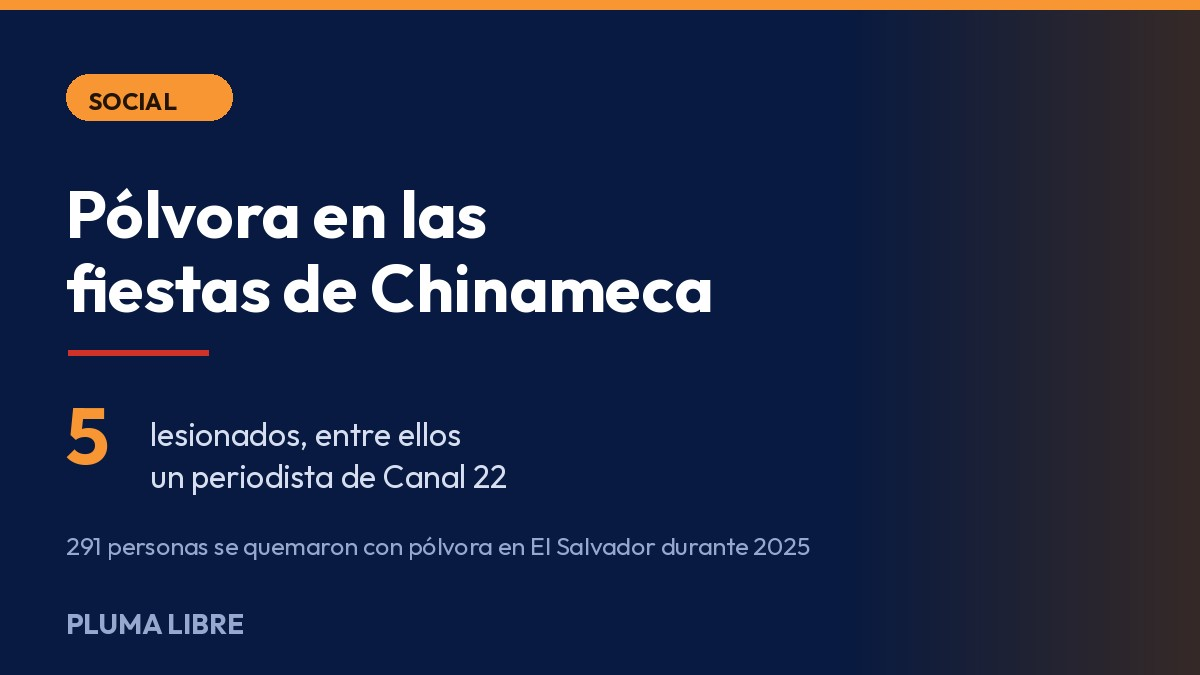
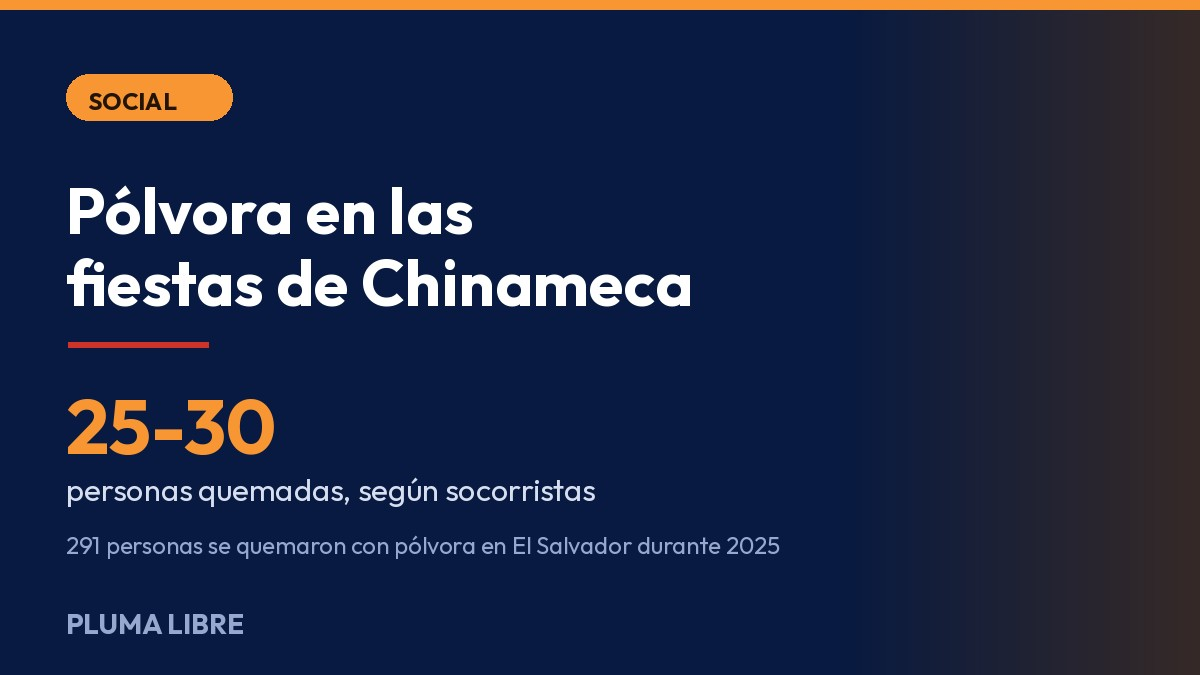
Chinameca: corregir a 25-30 quemados segun socorristas

diff --git a/articulos/polvora-fiestas-chinameca-lesionados.html b/articulos/polvora-fiestas-chinameca-lesionados.html
@@ -1,15 +1,15 @@
-<!DOCTYPE html><html lang="es"><head><meta charset="UTF-8"><meta name="viewport" content="width=device-width,initial-scale=1.0"><title>Pólvora sale disparada hacia la gente en las fiestas de Chinameca y deja al menos cinco lesionados — Pluma Libre</title><meta name="description" content="Entre los afectados hay un periodista de Canal 22 de Oriente. Cuerpos de socorro los trasladaron a un centro asistencial."><meta name="theme-color" content="#081A41"><link rel="canonical" href="https://plumalibre.press/articulos/polvora-fiestas-chinameca-lesionados.html"><meta property="og:type" content="article"><meta property="og:title" content="Pólvora sale disparada hacia la gente en las fiestas de Chinameca y deja al menos cinco lesionados"><meta property="og:description" content="Entre los afectados hay un periodista de Canal 22 de Oriente. Cuerpos de socorro los trasladaron a un centro asistencial."><meta property="og:image" content="https://plumalibre.press/assets/nota-polvora-chinameca.jpg"><meta property="og:site_name" content="Pluma Libre"><meta property="article:published_time" content="2026-07-31"><script type="application/ld+json">{"@context":"https://schema.org","@type":"NewsArticle","headline":"Pólvora sale disparada hacia la gente en las fiestas de Chinameca y deja al menos cinco lesionados","datePublished":"2026-07-31","author":{"@type":"Organization","name":"Pluma Libre"},"publisher":{"@type":"Organization","name":"Pluma Libre","logo":{"@type":"ImageObject","url":"https://plumalibre.press/assets/logo-simbolo.png"}}}</script><script>(function(){try{var p=new URLSearchParams(location.search);if(p.get("pl_no_track")==="1"){localStorage.setItem("pl_no_track","1");history.replaceState({},"",location.pathname+location.hash);}if(p.get("pl_track")==="1"){localStorage.removeItem("pl_no_track");history.replaceState({},"",location.pathname+location.hash);}if(localStorage.getItem("pl_no_track")==="1"){window["ga-disable-G-TZRTJLP5KT"]=true;}}catch(e){}})();</script><script async src="https://www.googletagmanager.com/gtag/js?id=G-TZRTJLP5KT"></script><script>window.dataLayer=window.dataLayer||[];function gtag(){dataLayer.push(arguments);}gtag("js",new Date());gtag("config","G-TZRTJLP5KT");</script><link rel="icon" href="../assets/favicon.ico" sizes="any"><link rel="icon" type="image/png" sizes="32x32" href="../assets/favicon-32x32.png"><link rel="icon" type="image/png" sizes="192x192" href="../assets/favicon-192x192.png"><link rel="apple-touch-icon" href="../assets/apple-touch-icon.png"><link rel="alternate" type="application/rss+xml" title="Pluma Libre" href="/rss.xml"><link rel="manifest" href="/manifest.webmanifest"><meta name="apple-mobile-web-app-capable" content="yes"><meta name="apple-mobile-web-app-status-bar-style" content="black-translucent"><meta name="apple-mobile-web-app-title" content="Pluma Libre"><meta name="mobile-web-app-capable" content="yes"><link rel="preconnect" href="https://fonts.googleapis.com"><link rel="preconnect" href="https://fonts.gstatic.com" crossorigin><link href="https://fonts.googleapis.com/css2?family=Newsreader:opsz,wght@6..72,400;6..72,600;6..72,700&family=Outfit:wght@400;500;600;700&display=swap" rel="stylesheet"><link rel="stylesheet" href="../style.css"></head><body class="article-page"><div class="top-bar"><div class="wrap"><span id="fecha"></span><a href="https://www.facebook.com/plumalibre.press/" target="_blank" rel="noopener" aria-label="Facebook"><svg width="14" height="14" fill="currentColor" viewBox="0 0 24 24"><path d="M24 12.073c0-6.627-5.373-12-12-12s-12 5.373-12 12c0 5.99 4.388 10.954 10.125 11.854v-8.385H7.078v-3.47h3.047V9.43c0-3.007 1.792-4.669 4.533-4.669 1.312 0 2.686.235 2.686.235v2.953H15.83c-1.491 0-1.956.925-1.956 1.874v2.25h3.328l-.532 3.47h-2.796v8.385C19.612 23.027 24 18.062 24 12.073z"/></svg></a></div></div><header class="header"><div class="wrap"><a href="../index.html" class="logo"><img src="../assets/logo-simbolo.png" alt="Pluma Libre" class="logo-simbolo" width="40" height="40"><div class="logo-text"><h1><img src="../assets/logo-wordmark.png" alt="PLUMA LIBRE" class="logo-wordmark"></h1></div></a><button class="menu-btn" id="menuBtn" aria-label="Menú"><span></span><span></span><span></span></button><nav class="nav" id="nav"><ul><li><a href="../index.html">Inicio</a></li><li><a href="../secciones/politico.html">Política</a></li><li><a href="../secciones/economico.html">Economía</a></li><li><a href="../secciones/deportivo.html">Deportes</a></li><li><a href="../secciones/social.html">Social</a></li><li><a href="../secciones/religioso.html">Religión</a></li><li><a href="../secciones/cultural.html">Cultura</a></li><li><a href="../secciones/internacional.html">Internacional</a></li><li><a href="../secciones/opinion.html">Opinión</a></li><li><a href="../secciones/tecnologico.html">Tecnología</a></li><li><a href="../secciones/entrevistas.html">Entrevistas</a></li><li><a href="../sobre-nosotros.html">Nosotros</a></li></ul></nav></div></header><main><div class="wrap"><div class="article-header"><span class="badge badge-brand">Social</span><h1>Pólvora sale disparada hacia la gente en las fiestas de Chinameca y deja al menos cinco lesionados</h1><p class="subtitle">Entre los afectados hay un periodista de Canal 22 de Oriente. Cuerpos de socorro los trasladaron a un centro asistencial.</p><div class="article-meta"><strong>Por Pluma Libre</strong> · 31 de julio, 2026 · San Miguel</div></div><figure class="article-img"><img src="../assets/nota-polvora-chinameca.jpg" alt="Pólvora disparada hacia el público en las fiestas patronales de Chinameca" loading="eager"><figcaption>Al menos cinco personas resultaron lesionadas durante la quema de pólvora en Chinameca, San Miguel Oeste.</figcaption></figure><div class="article-body"><p>Una quema de pólvora terminó en emergencia durante las <strong>fiestas patronales de Chinameca</strong>, en San Miguel Oeste, luego de que los artefactos pirotécnicos salieran proyectados hacia las personas que presenciaban el evento.</p>
+<!DOCTYPE html><html lang="es"><head><meta charset="UTF-8"><meta name="viewport" content="width=device-width,initial-scale=1.0"><title>Socorristas reportan entre 25 y 30 quemados por pólvora en las fiestas patronales de Chinameca — Pluma Libre</title><meta name="description" content="Los cohetes no tomaron altura y se desviaron hacia los espectadores, frente a la iglesia y el parque central. Entre los lesionados hay un periodista de Canal 22 de Oriente."><meta name="theme-color" content="#081A41"><link rel="canonical" href="https://plumalibre.press/articulos/polvora-fiestas-chinameca-lesionados.html"><meta property="og:type" content="article"><meta property="og:title" content="Socorristas reportan entre 25 y 30 quemados por pólvora en las fiestas patronales de Chinameca"><meta property="og:description" content="Los cohetes no tomaron altura y se desviaron hacia los espectadores, frente a la iglesia y el parque central. Entre los lesionados hay un periodista de Canal 22 de Oriente."><meta property="og:image" content="https://plumalibre.press/assets/nota-polvora-chinameca.jpg"><meta property="og:site_name" content="Pluma Libre"><meta property="article:published_time" content="2026-07-31"><script type="application/ld+json">{"@context":"https://schema.org","@type":"NewsArticle","headline":"Socorristas reportan entre 25 y 30 quemados por pólvora en las fiestas patronales de Chinameca","datePublished":"2026-07-31","author":{"@type":"Organization","name":"Pluma Libre"},"publisher":{"@type":"Organization","name":"Pluma Libre","logo":{"@type":"ImageObject","url":"https://plumalibre.press/assets/logo-simbolo.png"}}}</script><script>(function(){try{var p=new URLSearchParams(location.search);if(p.get("pl_no_track")==="1"){localStorage.setItem("pl_no_track","1");history.replaceState({},"",location.pathname+location.hash);}if(p.get("pl_track")==="1"){localStorage.removeItem("pl_no_track");history.replaceState({},"",location.pathname+location.hash);}if(localStorage.getItem("pl_no_track")==="1"){window["ga-disable-G-TZRTJLP5KT"]=true;}}catch(e){}})();</script><script async src="https://www.googletagmanager.com/gtag/js?id=G-TZRTJLP5KT"></script><script>window.dataLayer=window.dataLayer||[];function gtag(){dataLayer.push(arguments);}gtag("js",new Date());gtag("config","G-TZRTJLP5KT");</script><link rel="icon" href="../assets/favicon.ico" sizes="any"><link rel="icon" type="image/png" sizes="32x32" href="../assets/favicon-32x32.png"><link rel="icon" type="image/png" sizes="192x192" href="../assets/favicon-192x192.png"><link rel="apple-touch-icon" href="../assets/apple-touch-icon.png"><link rel="alternate" type="application/rss+xml" title="Pluma Libre" href="/rss.xml"><link rel="manifest" href="/manifest.webmanifest"><meta name="apple-mobile-web-app-capable" content="yes"><meta name="apple-mobile-web-app-status-bar-style" content="black-translucent"><meta name="apple-mobile-web-app-title" content="Pluma Libre"><meta name="mobile-web-app-capable" content="yes"><link rel="preconnect" href="https://fonts.googleapis.com"><link rel="preconnect" href="https://fonts.gstatic.com" crossorigin><link href="https://fonts.googleapis.com/css2?family=Newsreader:opsz,wght@6..72,400;6..72,600;6..72,700&family=Outfit:wght@400;500;600;700&display=swap" rel="stylesheet"><link rel="stylesheet" href="../style.css"></head><body class="article-page"><div class="top-bar"><div class="wrap"><span id="fecha"></span><a href="https://www.facebook.com/plumalibre.press/" target="_blank" rel="noopener" aria-label="Facebook"><svg width="14" height="14" fill="currentColor" viewBox="0 0 24 24"><path d="M24 12.073c0-6.627-5.373-12-12-12s-12 5.373-12 12c0 5.99 4.388 10.954 10.125 11.854v-8.385H7.078v-3.47h3.047V9.43c0-3.007 1.792-4.669 4.533-4.669 1.312 0 2.686.235 2.686.235v2.953H15.83c-1.491 0-1.956.925-1.956 1.874v2.25h3.328l-.532 3.47h-2.796v8.385C19.612 23.027 24 18.062 24 12.073z"/></svg></a></div></div><header class="header"><div class="wrap"><a href="../index.html" class="logo"><img src="../assets/logo-simbolo.png" alt="Pluma Libre" class="logo-simbolo" width="40" height="40"><div class="logo-text"><h1><img src="../assets/logo-wordmark.png" alt="PLUMA LIBRE" class="logo-wordmark"></h1></div></a><button class="menu-btn" id="menuBtn" aria-label="Menú"><span></span><span></span><span></span></button><nav class="nav" id="nav"><ul><li><a href="../index.html">Inicio</a></li><li><a href="../secciones/politico.html">Política</a></li><li><a href="../secciones/economico.html">Economía</a></li><li><a href="../secciones/deportivo.html">Deportes</a></li><li><a href="../secciones/social.html">Social</a></li><li><a href="../secciones/religioso.html">Religión</a></li><li><a href="../secciones/cultural.html">Cultura</a></li><li><a href="../secciones/internacional.html">Internacional</a></li><li><a href="../secciones/opinion.html">Opinión</a></li><li><a href="../secciones/tecnologico.html">Tecnología</a></li><li><a href="../secciones/entrevistas.html">Entrevistas</a></li><li><a href="../sobre-nosotros.html">Nosotros</a></li></ul></nav></div></header><main><div class="wrap"><div class="article-header"><span class="badge badge-brand">Social</span><h1>Socorristas reportan entre 25 y 30 quemados por pólvora en las fiestas patronales de Chinameca</h1><p class="subtitle">Los cohetes no tomaron altura y se desviaron hacia los espectadores, frente a la iglesia y el parque central. Entre los lesionados hay un periodista de Canal 22 de Oriente.</p><div class="article-meta"><strong>Por Pluma Libre</strong> · 31 de julio, 2026 · San Miguel</div></div><figure class="article-img"><img src="../assets/nota-polvora-chinameca.jpg" alt="Pólvora disparada hacia el público en las fiestas patronales de Chinameca" loading="eager"><figcaption>Socorristas reportaron entre 25 y 30 personas quemadas durante las fiestas patronales de Chinameca, San Miguel Oeste.</figcaption></figure><div class="article-body"><p>Entre <strong>25 y 30 personas resultaron quemadas</strong> la noche de este sábado durante las <strong>fiestas patronales de Chinameca</strong>, en San Miguel Oeste, según informaron socorristas que atendieron la emergencia en el lugar.</p>
 
-<p>El hecho dejó <strong>al menos cinco lesionados</strong>, entre ellos un <strong>periodista de Canal 22 de Oriente</strong>. Cuerpos de socorro los auxiliaron en el lugar y los trasladaron a un centro asistencial. Hasta el cierre de esta nota no se había informado sobre su estado de salud.</p>
+<p>El incidente ocurrió <strong>frente a la iglesia y el parque central</strong> del municipio. Durante el show de fuegos artificiales, los cohetes <strong>no tomaron altura y se desviaron directamente hacia los espectadores</strong>. Otros reportes indican que la pirotecnia que iba a utilizarse se incendió de forma repentina.</p>
 
-<p>En los videos que circulan del momento se observa cómo los proyectiles encendidos avanzan a ras del suelo hacia la zona donde estaba el público, en lugar de elevarse.</p>
+<p>Entre los lesionados hay un <strong>periodista de Canal 22 de Oriente</strong>. Los afectados fueron auxiliados por cuerpos de socorro y trasladados a centros asistenciales. Hasta el cierre de esta nota no se había detallado la gravedad de las quemaduras.</p>
 <aside class="pl-ad pl-ad-sobria pl-ad--banner-b" role="complementary" aria-label="Contenido publicitario" hidden><span class="pl-ad-label">Publicidad</span><div class="pl-ad-frame"><a href="" target="_blank" rel="noopener nofollow sponsored" aria-label="Ir al sitio del anunciante — se abre en una pestaña nueva"><img class="pl-ad-img-leaderboard" src="" width="728" height="90" alt=""><img class="pl-ad-img-mobile" src="" width="320" height="100" alt=""></a></div></aside>
+<p>En los videos que circulan del momento se observa a personas corriendo entre los proyectiles encendidos, que avanzan a ras del suelo por la calle donde estaba el público, mientras ambulancias llegan al lugar.</p>
+
 <h2>Un riesgo que se repite cada año</h2>
 
-<p>El caso se suma a una lista larga. Según los registros oficiales, <strong>291 personas resultaron quemadas con pólvora en El Salvador durante 2025</strong>. Solo en lo que va de 2026 ya se han reportado varios episodios colectivos: unas 30 personas quemadas durante la celebración en honor a Jesús Cautivo en Zacatecoluca, el 25 de enero; ocho en actividades religiosas de febrero; y al menos 16 en abril.</p>
+<p>El caso se suma a una lista larga. Según los registros oficiales, <strong>291 personas resultaron quemadas con pólvora en El Salvador durante 2025</strong>. Solo en lo que va de 2026 ya se habían reportado varios episodios colectivos: unas 30 personas quemadas durante la celebración en honor a Jesús Cautivo en Zacatecoluca, el 25 de enero; ocho en actividades religiosas de febrero; y al menos 16 en abril.</p>
 
-<p>La quema de pólvora en fiestas patronales expone cada año a cientos de salvadoreños, y FOSALUD mantiene campañas de prevención de lesiones por este tipo de artefactos. La normativa nacional prohíbe además productos de alto poder detonante como las bombas explosivas, los misiles chinos, los morteros destructivos y las botellas de champaña.</p>
+<p>FOSALUD mantiene campañas de prevención de lesiones por pólvora, y la normativa nacional prohíbe productos de alto poder detonante como las bombas explosivas, los misiles chinos, los morteros destructivos y las botellas de champaña.</p>
 
-<h2>Nota sobre esta información</h2>
-
-<p>Los datos del incidente en Chinameca proceden de reportes difundidos en redes sociales. Pluma Libre gestiona la confirmación oficial con los cuerpos de socorro.</p></div><section class="follow-us"><p>Seguinos para más noticias de Sonsonate</p><div class="social-icons"><a href="https://www.facebook.com/plumalibre.press/" target="_blank" rel="noopener" aria-label="Facebook"><svg viewBox="0 0 24 24" width="1.25em" height="1.25em" fill="currentColor" aria-hidden="true"><path d="M12 0C5.373 0 0 5.373 0 12c0 6.016 4.432 10.984 10.206 11.852V15.18H7.237V12h2.969V9.797c0-3.504 1.67-5.033 4.58-5.033 1.394 0 2.131.103 2.48.15v2.73h-1.97c-1.235 0-1.667 1.17-1.667 2.49V12h3.605l-.489 3.18h-3.117v8.697C19.482 23.009 24 18.006 24 12c0-6.627-5.373-12-12-12z"/></svg></a><a href="https://www.instagram.com/plumalibrepress/" target="_blank" rel="noopener" aria-label="Instagram"><svg viewBox="0 0 24 24" width="1.25em" height="1.25em" fill="currentColor" aria-hidden="true"><path d="M12 2.163c3.204 0 3.584.012 4.85.07 3.252.148 4.771 1.691 4.919 4.919.058 1.265.069 1.645.069 4.849 0 3.205-.012 3.584-.069 4.849-.149 3.225-1.664 4.771-4.919 4.919-1.266.058-1.644.07-4.85.07-3.204 0-3.584-.012-4.849-.07-3.26-.149-4.771-1.699-4.919-4.92-.058-1.265-.07-1.644-.07-4.849 0-3.204.013-3.583.07-4.849.149-3.227 1.664-4.771 4.919-4.919 1.266-.057 1.645-.069 4.849-.069zM12 0C8.741 0 8.333.014 7.053.072 2.695.272.273 2.69.073 7.052.014 8.333 0 8.741 0 12c0 3.259.014 3.668.072 4.948.2 4.358 2.618 6.78 6.98 6.98C8.333 23.986 8.741 24 12 24c3.259 0 3.668-.014 4.948-.072 4.354-.2 6.782-2.618 6.979-6.98.059-1.28.073-1.689.073-4.948 0-3.259-.014-3.667-.072-4.947-.196-4.354-2.617-6.78-6.979-6.98C15.668.014 15.259 0 12 0zm0 5.838a6.162 6.162 0 100 12.324 6.162 6.162 0 000-12.324zM12 16a4 4 0 110-8 4 4 0 010 8zm6.406-11.845a1.44 1.44 0 100 2.881 1.44 1.44 0 000-2.881z"/></svg></a><a href="https://x.com/PlumaLibrePress" target="_blank" rel="noopener" aria-label="X"><svg viewBox="0 0 24 24" width="1.25em" height="1.25em" fill="currentColor" aria-hidden="true"><path d="M18.901 1.153h3.68l-8.04 9.19L24 22.846h-7.406l-5.8-7.584-6.638 7.584H.474l8.6-9.83L0 1.154h7.594l5.243 6.932ZM17.61 20.644h2.039L6.486 3.24H4.298Z"/></svg></a><a href="https://www.youtube.com/@PlumaLibre-k5z" target="_blank" rel="noopener" aria-label="YouTube"><svg viewBox="0 0 24 24" width="1.25em" height="1.25em" fill="currentColor" aria-hidden="true"><path d="M23.498 6.186a3.016 3.016 0 0 0-2.122-2.136C19.505 3.545 12 3.545 12 3.545s-7.505 0-9.377.505A3.017 3.017 0 0 0 .502 6.186C0 8.07 0 12 0 12s0 3.93.502 5.814a3.016 3.016 0 0 0 2.122 2.136c1.871.505 9.376.505 9.376.505s7.505 0 9.377-.505a3.015 3.015 0 0 0 2.122-2.136C24 15.93 24 12 24 12s0-3.93-.502-5.814zM9.545 15.568V8.432L15.818 12l-6.273 3.568z"/></svg></a><a href="https://wa.me/50373836622?text=Hola%20Pluma%20Libre" target="_blank" rel="noopener" aria-label="WhatsApp"><svg viewBox="0 0 24 24" width="1.25em" height="1.25em" fill="currentColor" aria-hidden="true"><path d="M17.472 14.382c-.297-.149-1.758-.867-2.03-.967-.273-.099-.471-.148-.67.15-.197.297-.767.966-.94 1.164-.173.199-.347.223-.644.075-.297-.15-1.255-.463-2.39-1.475-.883-.788-1.48-1.761-1.653-2.059-.173-.297-.018-.458.13-.606.134-.133.298-.347.446-.52.149-.174.198-.298.298-.497.099-.198.05-.371-.025-.52-.075-.149-.669-1.612-.916-2.207-.242-.579-.487-.5-.669-.51-.173-.008-.371-.01-.57-.01-.198 0-.52.074-.792.372-.272.297-1.04 1.016-1.04 2.479 0 1.462 1.065 2.875 1.213 3.074.149.198 2.096 3.2 5.077 4.487.709.306 1.262.489 1.694.625.712.227 1.36.195 1.871.118.571-.085 1.758-.719 2.006-1.413.248-.694.248-1.289.173-1.413-.074-.124-.272-.198-.57-.347m-5.421 7.403h-.004a9.87 9.87 0 01-5.031-1.378l-.361-.214-3.741.982.998-3.648-.235-.374a9.86 9.86 0 01-1.51-5.26c.001-5.45 4.436-9.884 9.888-9.884 2.64 0 5.122 1.03 6.988 2.898a9.825 9.825 0 012.893 6.994c-.003 5.45-4.437 9.884-9.885 9.884m8.413-18.297A11.815 11.815 0 0012.05 0C5.495 0 .16 5.335.157 11.892c0 2.096.547 4.142 1.588 5.945L.057 24l6.305-1.654a11.882 11.882 0 005.683 1.448h.005c6.554 0 11.89-5.335 11.893-11.893a11.821 11.821 0 00-3.48-8.413Z"/></svg></a></div></section><section class="contact-cta"><p>¿Tenés una noticia, una denuncia o querés anunciarte con nosotros?</p><p><a href="mailto:contacto@plumalibre.press">contacto@plumalibre.press</a> · <a href="../sobre-nosotros.html#contactoForm">Escribinos aquí</a></p></section><div class="share"><p class="share-label">Compartir</p><div class="share-btns"><a class="fb" id="shareFb" href="#" target="_blank">Facebook</a><a class="wa" id="shareWa" href="#" target="_blank">WhatsApp</a></div></div></div></main><footer class="footer"><div class="wrap"><div class="footer-grid"><div><h4>Pluma Libre</h4><p>Medio Informativo de Interés Local, Nacional e Internacional.</p></div><div><h4>Secciones</h4><ul><li><a href="../secciones/politico.html">Política</a></li><li><a href="../secciones/economico.html">Economía</a></li><li><a href="../secciones/deportivo.html">Deportes</a></li><li><a href="../secciones/social.html">Social</a></li><li><a href="../secciones/religioso.html">Religión</a></li><li><a href="../secciones/cultural.html">Cultura</a></li><li><a href="../secciones/internacional.html">Internacional</a></li><li><a href="../secciones/opinion.html">Opinión</a></li><li><a href="../secciones/tecnologico.html">Tecnología</a></li><li><a href="../secciones/entrevistas.html">Entrevistas</a></li></ul></div><div><h4>Contacto</h4><p>Sonsonate, El Salvador</p></div></div><p class="footer-bottom">© 2026 Pluma Libre.</p></div></footer><script>const m=["enero","febrero","marzo","abril","mayo","junio","julio","agosto","septiembre","octubre","noviembre","diciembre"],dd=["Domingo","Lunes","Martes","Miércoles","Jueves","Viernes","Sábado"],h=new Date();document.getElementById("fecha").textContent=dd[h.getDay()]+", "+h.getDate()+" de "+m[h.getMonth()]+" de "+h.getFullYear();const mb=document.getElementById("menuBtn"),nv=document.getElementById("nav");mb.addEventListener("click",()=>{nv.classList.toggle("open");mb.classList.toggle("open")});document.querySelectorAll(".nav a").forEach(l=>l.addEventListener("click",()=>{nv.classList.remove("open");mb.classList.remove("open")}));const u=encodeURIComponent(location.href),t=encodeURIComponent(document.title);document.getElementById("shareFb").href="https://www.facebook.com/sharer/sharer.php?u="+u;document.getElementById("shareWa").href="https://api.whatsapp.com/send?text="+t+"%20"+u</script><script>(function(){async function loadBanners(){try{var r=await fetch("/banners.json?t="+Date.now(),{cache:"no-store"});if(!r.ok)return;var c=await r.json();var isUrl=function(u){return typeof u==="string"&&(/^https:\/\//i.test(u)||/^(mailto:|tel:)/i.test(u)||/^https:\/\/wa\.me\//i.test(u));};var isImg=function(u){return typeof u==="string"&&(/^https:\/\//i.test(u)||/^[A-Za-z0-9._\/-]+$/.test(u));};var ytId=function(u){if(!u)return null;var m=String(u).match(/(?:youtube\.com\/(?:watch\?v=|embed\/|v\/)|youtu\.be\/)([a-zA-Z0-9_-]{11})/);return m?m[1]:null;};var esc=function(s){return String(s||'').replace(/&/g,'&amp;').replace(/</g,'&lt;').replace(/>/g,'&gt;').replace(/"/g,'&quot;');};var abs=function(p){return /^https?:\/\//i.test(p)||(p&&p.charAt(0)==='/')?p:'/'+p;};var DEF_LOC={banner_a_home:'home_top',banner_b_nota:'nota_interno',banner_c_grid:'home_grid'};var bannerValido=function(b){if(!b||b.activo!==true||!isUrl(b.link))return false;var t=b.tipo||'imagen';if(t==='youtube')return !!ytId(b.imagen);return !!b.imagen&&isImg(b.imagen);};var locsDe=function(b,key){return Array.isArray(b.ubicaciones)?b.ubicaciones:[DEF_LOC[key]||'nota_interno'];};var pickFor=function(loc){var slots=[['banner_a_home',c.banner_a_home],['banner_b_nota',c.banner_b_nota],['banner_c_grid',c.banner_c_grid]];for(var i=0;i<slots.length;i++){if(bannerValido(slots[i][1])&&locsDe(slots[i][1],slots[i][0]).indexOf(loc)>=0)return slots[i][1];}var ind=Array.isArray(c.banners_grid_individuales)?c.banners_grid_individuales:[];for(var j=0;j<ind.length;j++){if(bannerValido(ind[j])&&(ind[j].ubicaciones||['home_grid']).indexOf(loc)>=0)return ind[j];}return null;};var renderEn=function(ad,b){var link=ad.querySelector('.pl-ad-frame a')||ad.querySelector('a');if(!link)return;var tipo=b.tipo||'imagen';link.href=b.link;if(tipo==='youtube'){var id=ytId(b.imagen);link.innerHTML='<iframe src="https://www.youtube.com/embed/'+id+'?autoplay=1&mute=1&loop=1&playlist='+id+'&controls=0&modestbranding=1&playsinline=1" allow="autoplay; encrypted-media" allowfullscreen style="display:block;width:100%;height:100%;border:0"></iframe>';}else if(tipo==='video'){link.innerHTML='<video src="'+esc(abs(b.imagen))+'" autoplay loop muted playsinline style="display:block;width:100%;height:100%;object-fit:cover"></video>';}else{var imgs=link.querySelectorAll('img');if(imgs.length)imgs.forEach(function(i){i.src=abs(b.imagen);if(b.alt)i.alt=b.alt;});else link.innerHTML='<img src="'+esc(abs(b.imagen))+'" alt="'+esc(b.alt||'')+'" style="display:block;width:100%;height:100%;object-fit:contain">';}ad.removeAttribute('hidden');};var bNota=pickFor('nota_interno');if(bNota)document.querySelectorAll('.pl-ad--banner-b').forEach(function(ad){renderEn(ad,bNota);});}catch(e){}}if(document.querySelector('.pl-ad')){if(document.readyState==='loading')document.addEventListener('DOMContentLoaded',loadBanners);else loadBanners();}})();</script><script>addEventListener("scroll",function(){var h=document.querySelector(".header");h&&h.classList.toggle("scrolled",scrollY>20)},{passive:true});</script><script src="/assets/install.js" defer></script><script>if("serviceWorker" in navigator){addEventListener("load",function(){navigator.serviceWorker.register("/sw.js").catch(function(){});});}</script></body></html>
+<p><em>Esta nota se actualizará conforme las autoridades confirmen el número definitivo de personas atendidas.</em></p></div><section class="follow-us"><p>Seguinos para más noticias de Sonsonate</p><div class="social-icons"><a href="https://www.facebook.com/plumalibre.press/" target="_blank" rel="noopener" aria-label="Facebook"><svg viewBox="0 0 24 24" width="1.25em" height="1.25em" fill="currentColor" aria-hidden="true"><path d="M12 0C5.373 0 0 5.373 0 12c0 6.016 4.432 10.984 10.206 11.852V15.18H7.237V12h2.969V9.797c0-3.504 1.67-5.033 4.58-5.033 1.394 0 2.131.103 2.48.15v2.73h-1.97c-1.235 0-1.667 1.17-1.667 2.49V12h3.605l-.489 3.18h-3.117v8.697C19.482 23.009 24 18.006 24 12c0-6.627-5.373-12-12-12z"/></svg></a><a href="https://www.instagram.com/plumalibrepress/" target="_blank" rel="noopener" aria-label="Instagram"><svg viewBox="0 0 24 24" width="1.25em" height="1.25em" fill="currentColor" aria-hidden="true"><path d="M12 2.163c3.204 0 3.584.012 4.85.07 3.252.148 4.771 1.691 4.919 4.919.058 1.265.069 1.645.069 4.849 0 3.205-.012 3.584-.069 4.849-.149 3.225-1.664 4.771-4.919 4.919-1.266.058-1.644.07-4.85.07-3.204 0-3.584-.012-4.849-.07-3.26-.149-4.771-1.699-4.919-4.92-.058-1.265-.07-1.644-.07-4.849 0-3.204.013-3.583.07-4.849.149-3.227 1.664-4.771 4.919-4.919 1.266-.057 1.645-.069 4.849-.069zM12 0C8.741 0 8.333.014 7.053.072 2.695.272.273 2.69.073 7.052.014 8.333 0 8.741 0 12c0 3.259.014 3.668.072 4.948.2 4.358 2.618 6.78 6.98 6.98C8.333 23.986 8.741 24 12 24c3.259 0 3.668-.014 4.948-.072 4.354-.2 6.782-2.618 6.979-6.98.059-1.28.073-1.689.073-4.948 0-3.259-.014-3.667-.072-4.947-.196-4.354-2.617-6.78-6.979-6.98C15.668.014 15.259 0 12 0zm0 5.838a6.162 6.162 0 100 12.324 6.162 6.162 0 000-12.324zM12 16a4 4 0 110-8 4 4 0 010 8zm6.406-11.845a1.44 1.44 0 100 2.881 1.44 1.44 0 000-2.881z"/></svg></a><a href="https://x.com/PlumaLibrePress" target="_blank" rel="noopener" aria-label="X"><svg viewBox="0 0 24 24" width="1.25em" height="1.25em" fill="currentColor" aria-hidden="true"><path d="M18.901 1.153h3.68l-8.04 9.19L24 22.846h-7.406l-5.8-7.584-6.638 7.584H.474l8.6-9.83L0 1.154h7.594l5.243 6.932ZM17.61 20.644h2.039L6.486 3.24H4.298Z"/></svg></a><a href="https://www.youtube.com/@PlumaLibre-k5z" target="_blank" rel="noopener" aria-label="YouTube"><svg viewBox="0 0 24 24" width="1.25em" height="1.25em" fill="currentColor" aria-hidden="true"><path d="M23.498 6.186a3.016 3.016 0 0 0-2.122-2.136C19.505 3.545 12 3.545 12 3.545s-7.505 0-9.377.505A3.017 3.017 0 0 0 .502 6.186C0 8.07 0 12 0 12s0 3.93.502 5.814a3.016 3.016 0 0 0 2.122 2.136c1.871.505 9.376.505 9.376.505s7.505 0 9.377-.505a3.015 3.015 0 0 0 2.122-2.136C24 15.93 24 12 24 12s0-3.93-.502-5.814zM9.545 15.568V8.432L15.818 12l-6.273 3.568z"/></svg></a><a href="https://wa.me/50373836622?text=Hola%20Pluma%20Libre" target="_blank" rel="noopener" aria-label="WhatsApp"><svg viewBox="0 0 24 24" width="1.25em" height="1.25em" fill="currentColor" aria-hidden="true"><path d="M17.472 14.382c-.297-.149-1.758-.867-2.03-.967-.273-.099-.471-.148-.67.15-.197.297-.767.966-.94 1.164-.173.199-.347.223-.644.075-.297-.15-1.255-.463-2.39-1.475-.883-.788-1.48-1.761-1.653-2.059-.173-.297-.018-.458.13-.606.134-.133.298-.347.446-.52.149-.174.198-.298.298-.497.099-.198.05-.371-.025-.52-.075-.149-.669-1.612-.916-2.207-.242-.579-.487-.5-.669-.51-.173-.008-.371-.01-.57-.01-.198 0-.52.074-.792.372-.272.297-1.04 1.016-1.04 2.479 0 1.462 1.065 2.875 1.213 3.074.149.198 2.096 3.2 5.077 4.487.709.306 1.262.489 1.694.625.712.227 1.36.195 1.871.118.571-.085 1.758-.719 2.006-1.413.248-.694.248-1.289.173-1.413-.074-.124-.272-.198-.57-.347m-5.421 7.403h-.004a9.87 9.87 0 01-5.031-1.378l-.361-.214-3.741.982.998-3.648-.235-.374a9.86 9.86 0 01-1.51-5.26c.001-5.45 4.436-9.884 9.888-9.884 2.64 0 5.122 1.03 6.988 2.898a9.825 9.825 0 012.893 6.994c-.003 5.45-4.437 9.884-9.885 9.884m8.413-18.297A11.815 11.815 0 0012.05 0C5.495 0 .16 5.335.157 11.892c0 2.096.547 4.142 1.588 5.945L.057 24l6.305-1.654a11.882 11.882 0 005.683 1.448h.005c6.554 0 11.89-5.335 11.893-11.893a11.821 11.821 0 00-3.48-8.413Z"/></svg></a></div></section><section class="contact-cta"><p>¿Tenés una noticia, una denuncia o querés anunciarte con nosotros?</p><p><a href="mailto:contacto@plumalibre.press">contacto@plumalibre.press</a> · <a href="../sobre-nosotros.html#contactoForm">Escribinos aquí</a></p></section><div class="share"><p class="share-label">Compartir</p><div class="share-btns"><a class="fb" id="shareFb" href="#" target="_blank">Facebook</a><a class="wa" id="shareWa" href="#" target="_blank">WhatsApp</a></div></div></div></main><footer class="footer"><div class="wrap"><div class="footer-grid"><div><h4>Pluma Libre</h4><p>Medio Informativo de Interés Local, Nacional e Internacional.</p></div><div><h4>Secciones</h4><ul><li><a href="../secciones/politico.html">Política</a></li><li><a href="../secciones/economico.html">Economía</a></li><li><a href="../secciones/deportivo.html">Deportes</a></li><li><a href="../secciones/social.html">Social</a></li><li><a href="../secciones/religioso.html">Religión</a></li><li><a href="../secciones/cultural.html">Cultura</a></li><li><a href="../secciones/internacional.html">Internacional</a></li><li><a href="../secciones/opinion.html">Opinión</a></li><li><a href="../secciones/tecnologico.html">Tecnología</a></li><li><a href="../secciones/entrevistas.html">Entrevistas</a></li></ul></div><div><h4>Contacto</h4><p>Sonsonate, El Salvador</p></div></div><p class="footer-bottom">© 2026 Pluma Libre.</p></div></footer><script>const m=["enero","febrero","marzo","abril","mayo","junio","julio","agosto","septiembre","octubre","noviembre","diciembre"],dd=["Domingo","Lunes","Martes","Miércoles","Jueves","Viernes","Sábado"],h=new Date();document.getElementById("fecha").textContent=dd[h.getDay()]+", "+h.getDate()+" de "+m[h.getMonth()]+" de "+h.getFullYear();const mb=document.getElementById("menuBtn"),nv=document.getElementById("nav");mb.addEventListener("click",()=>{nv.classList.toggle("open");mb.classList.toggle("open")});document.querySelectorAll(".nav a").forEach(l=>l.addEventListener("click",()=>{nv.classList.remove("open");mb.classList.remove("open")}));const u=encodeURIComponent(location.href),t=encodeURIComponent(document.title);document.getElementById("shareFb").href="https://www.facebook.com/sharer/sharer.php?u="+u;document.getElementById("shareWa").href="https://api.whatsapp.com/send?text="+t+"%20"+u</script><script>(function(){async function loadBanners(){try{var r=await fetch("/banners.json?t="+Date.now(),{cache:"no-store"});if(!r.ok)return;var c=await r.json();var isUrl=function(u){return typeof u==="string"&&(/^https:\/\//i.test(u)||/^(mailto:|tel:)/i.test(u)||/^https:\/\/wa\.me\//i.test(u));};var isImg=function(u){return typeof u==="string"&&(/^https:\/\//i.test(u)||/^[A-Za-z0-9._\/-]+$/.test(u));};var ytId=function(u){if(!u)return null;var m=String(u).match(/(?:youtube\.com\/(?:watch\?v=|embed\/|v\/)|youtu\.be\/)([a-zA-Z0-9_-]{11})/);return m?m[1]:null;};var esc=function(s){return String(s||'').replace(/&/g,'&amp;').replace(/</g,'&lt;').replace(/>/g,'&gt;').replace(/"/g,'&quot;');};var abs=function(p){return /^https?:\/\//i.test(p)||(p&&p.charAt(0)==='/')?p:'/'+p;};var DEF_LOC={banner_a_home:'home_top',banner_b_nota:'nota_interno',banner_c_grid:'home_grid'};var bannerValido=function(b){if(!b||b.activo!==true||!isUrl(b.link))return false;var t=b.tipo||'imagen';if(t==='youtube')return !!ytId(b.imagen);return !!b.imagen&&isImg(b.imagen);};var locsDe=function(b,key){return Array.isArray(b.ubicaciones)?b.ubicaciones:[DEF_LOC[key]||'nota_interno'];};var pickFor=function(loc){var slots=[['banner_a_home',c.banner_a_home],['banner_b_nota',c.banner_b_nota],['banner_c_grid',c.banner_c_grid]];for(var i=0;i<slots.length;i++){if(bannerValido(slots[i][1])&&locsDe(slots[i][1],slots[i][0]).indexOf(loc)>=0)return slots[i][1];}var ind=Array.isArray(c.banners_grid_individuales)?c.banners_grid_individuales:[];for(var j=0;j<ind.length;j++){if(bannerValido(ind[j])&&(ind[j].ubicaciones||['home_grid']).indexOf(loc)>=0)return ind[j];}return null;};var renderEn=function(ad,b){var link=ad.querySelector('.pl-ad-frame a')||ad.querySelector('a');if(!link)return;var tipo=b.tipo||'imagen';link.href=b.link;if(tipo==='youtube'){var id=ytId(b.imagen);link.innerHTML='<iframe src="https://www.youtube.com/embed/'+id+'?autoplay=1&mute=1&loop=1&playlist='+id+'&controls=0&modestbranding=1&playsinline=1" allow="autoplay; encrypted-media" allowfullscreen style="display:block;width:100%;height:100%;border:0"></iframe>';}else if(tipo==='video'){link.innerHTML='<video src="'+esc(abs(b.imagen))+'" autoplay loop muted playsinline style="display:block;width:100%;height:100%;object-fit:cover"></video>';}else{var imgs=link.querySelectorAll('img');if(imgs.length)imgs.forEach(function(i){i.src=abs(b.imagen);if(b.alt)i.alt=b.alt;});else link.innerHTML='<img src="'+esc(abs(b.imagen))+'" alt="'+esc(b.alt||'')+'" style="display:block;width:100%;height:100%;object-fit:contain">';}ad.removeAttribute('hidden');};var bNota=pickFor('nota_interno');if(bNota)document.querySelectorAll('.pl-ad--banner-b').forEach(function(ad){renderEn(ad,bNota);});}catch(e){}}if(document.querySelector('.pl-ad')){if(document.readyState==='loading')document.addEventListener('DOMContentLoaded',loadBanners);else loadBanners();}})();</script><script>addEventListener("scroll",function(){var h=document.querySelector(".header");h&&h.classList.toggle("scrolled",scrollY>20)},{passive:true});</script><script src="/assets/install.js" defer></script><script>if("serviceWorker" in navigator){addEventListener("load",function(){navigator.serviceWorker.register("/sw.js").catch(function(){});});}</script></body></html>

diff --git a/index.html b/index.html
@@ -123,7 +123,7 @@
         <h2>Últimas Noticias</h2>
       </div>
       <div class="news-grid">
-        <article class="card"><div class="thumb"><img src="assets/nota-polvora-chinameca.jpg" alt="" loading="lazy"></div><div class="info"><span class="badge-sm">Social</span><h3><a href="articulos/polvora-fiestas-chinameca-lesionados.html">Pólvora sale disparada hacia la gente en las fiestas de Chinameca y deja al menos cinco lesionados</a></h3><p class="meta">31 de julio, 2026</p></div></article>
+        <article class="card"><div class="thumb"><img src="assets/nota-polvora-chinameca.jpg" alt="" loading="lazy"></div><div class="info"><span class="badge-sm">Social</span><h3><a href="articulos/polvora-fiestas-chinameca-lesionados.html">Socorristas reportan entre 25 y 30 quemados por pólvora en las fiestas patronales de Chinameca</a></h3><p class="meta">31 de julio, 2026</p></div></article>
         <article class="card"><div class="thumb"><img src="assets/nota-madrid-hablemos-maestras.jpg" alt="" loading="lazy"></div><div class="info"><span class="badge-sm">Entrevistas</span><h3><a href="articulos/madrid-maestras-despedidas-centro-escolar-rafael-campo.html">«Claro que hay una cultura de miedo»: para Ángel Madrid, el despido de unas maestras en Sonsonate es «un mensaje para los maestros»</a></h3><p class="meta">31 de julio, 2026</p></div></article>
         <article class="card"><div class="thumb"><img src="assets/nota-sol-artificial-china.jpg" alt="" loading="lazy"></div><div class="info"><span class="badge-sm">Tecnología</span><h3><a href="articulos/china-sol-artificial-iman-fusion-nuclear.html">China terminó el imán más grande del mundo para su «sol artificial»: 582 toneladas para sostener fuego a 100 millones de grados</a></h3><p class="meta">31 de julio, 2026</p></div></article>
         <article class="card"><div class="thumb"><img src="assets/nota-proyecto-panama-anthropic.jpg" alt="" loading="lazy"></div><div class="info"><span class="badge-sm">Tecnología</span><h3><a href="articulos/proyecto-panama-anthropic-escaneo-libros.html">Proyecto Panamá: la operación secreta con la que Anthropic compró, cortó y escaneó millones de libros para entrenar su IA</a></h3><p class="meta">31 de julio, 2026</p></div></article>

diff --git a/secciones/social.html b/secciones/social.html
@@ -40,9 +40,9 @@
   </div></header>
   <main><div class="wrap"><div class="section-head"><h2>Social</h2></div>
     <article class="card-lg">
-      <div class="img-wrap"><img src="../assets/nota-polvora-chinameca.jpg" alt="Pólvora sale disparada hacia la gente en las fiestas de Chinameca y deja al menos cinco lesionados" loading="lazy"></div>
-      <h3><a href="../articulos/polvora-fiestas-chinameca-lesionados.html">Pólvora sale disparada hacia la gente en las fiestas de Chinameca y deja al menos cinco lesionados</a></h3>
-      <p class="excerpt">Entre los lesionados hay un periodista de Canal 22 de Oriente. En 2025 se registraron 291 personas quemadas con pólvora en el país.</p>
+      <div class="img-wrap"><img src="../assets/nota-polvora-chinameca.jpg" alt="Socorristas reportan entre 25 y 30 quemados por pólvora en las fiestas patronales de Chinameca" loading="lazy"></div>
+      <h3><a href="../articulos/polvora-fiestas-chinameca-lesionados.html">Socorristas reportan entre 25 y 30 quemados por pólvora en las fiestas patronales de Chinameca</a></h3>
+      <p class="excerpt">Los cohetes no tomaron altura y se desviaron hacia el público, frente a la iglesia y el parque central. Entre los lesionados, un periodista de Canal 22.</p>
       <p class="meta">Por Pluma Libre · 31 de julio, 2026</p>
     </article>
     <article class="card-lg">
